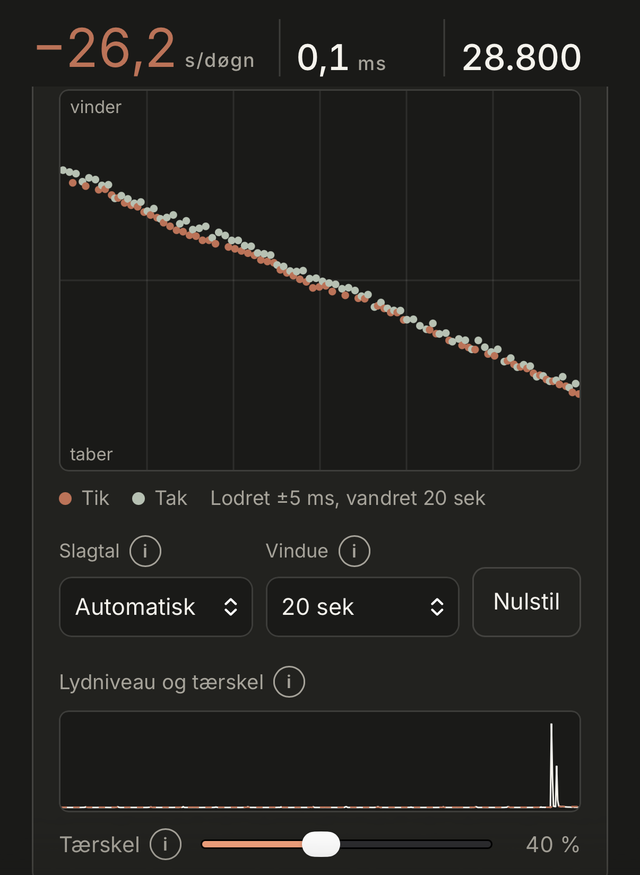
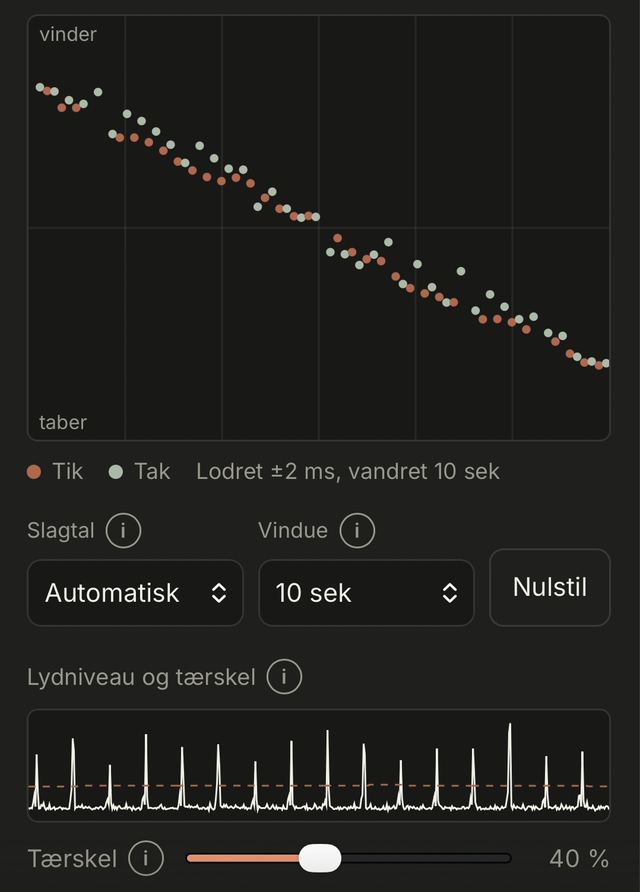
Use new app screenshot in hero and show it complete in a clean rounded frame
Claude-Session: https://claude.ai/code/session_01658q5cCGmEo7LgujBV7tLx

diff --git a/site.css b/site.css
@@ -427,7 +427,7 @@ html:has(.subnav){scroll-padding-top:calc(env(safe-area-inset-top,0px) + var(--h
 
 /* hero: rigtig måling i telefonramme */
 .appshot{margin:0;display:flex;flex-direction:column;align-items:center}
-.appshot .phone{width:min(300px,78vw);border:8px solid var(--color-ink);border-bottom:0;border-radius:38px 38px 0 0;overflow:hidden;background:#1A1A18;-webkit-mask-image:linear-gradient(#000 72%,transparent);mask-image:linear-gradient(#000 72%,transparent)}
+.appshot .phone{width:min(320px,80vw);border:6px solid var(--color-ink);border-radius:30px;overflow:hidden;background:#1A1A18;box-shadow:0 14px 40px rgba(26,26,24,.18)}
 .appshot .phone img{display:block;width:100%;height:auto}
 .appshot figcaption{font-size:.8rem;color:var(--color-ink-soft);margin-top:var(--space-sm)}
 .fig img{display:block;width:100%;height:auto;border-radius:8px}
@@ -450,5 +450,5 @@ html:has(.subnav){scroll-padding-top:calc(env(safe-area-inset-top,0px) + var(--h
   :root:not(.tool) svg[fill="#EFEBDF"],:root:not(.tool) svg [fill="#EFEBDF"]{fill:var(--color-paper-deep)}
   :root:not(.tool) svg[fill="#E9DFC6"],:root:not(.tool) svg [fill="#E9DFC6"]{fill:var(--color-sand-soft)}
   :root:not(.tool) svg[stroke="#E6DDCB"],:root:not(.tool) svg [stroke="#E6DDCB"]{stroke:var(--color-sand-soft)}
-  :root:not(.tool) .appshot .phone{border-color:#3A3A35}
+  :root:not(.tool) .appshot .phone{border-color:#3A3A35;box-shadow:none}
 }

diff --git a/index.html b/index.html
@@ -40,7 +40,7 @@
     <div class="ctas"><a class="btn primary" href="maal.html">Mål dit ur <span class="arrow" aria-hidden="true">→</span></a><a class="textlink" href="#maaling">Sådan virker det</a></div>
   </div>
   <figure class="appshot">
-    <div class="phone"><img src="img/hero-maaling.png" width="640" height="875" alt="BeatMeter midt i en måling: afvigelse på minus 26,2 sekunder i døgnet, beat error 0,1 millisekunder og 28.800 slag i timen, med tik og tak tegnet som punkter på et diagram."></div>
+    <div class="phone"><img src="img/hero-maaling.png" width="640" height="892" alt="BeatMeter midt i en måling: tik og tak tegnet som punkter på et diagram, med lydniveau og tærskel under."></div>
     <figcaption>En rigtig måling i BeatMeter.</figcaption>
   </figure>
 </div></section>
